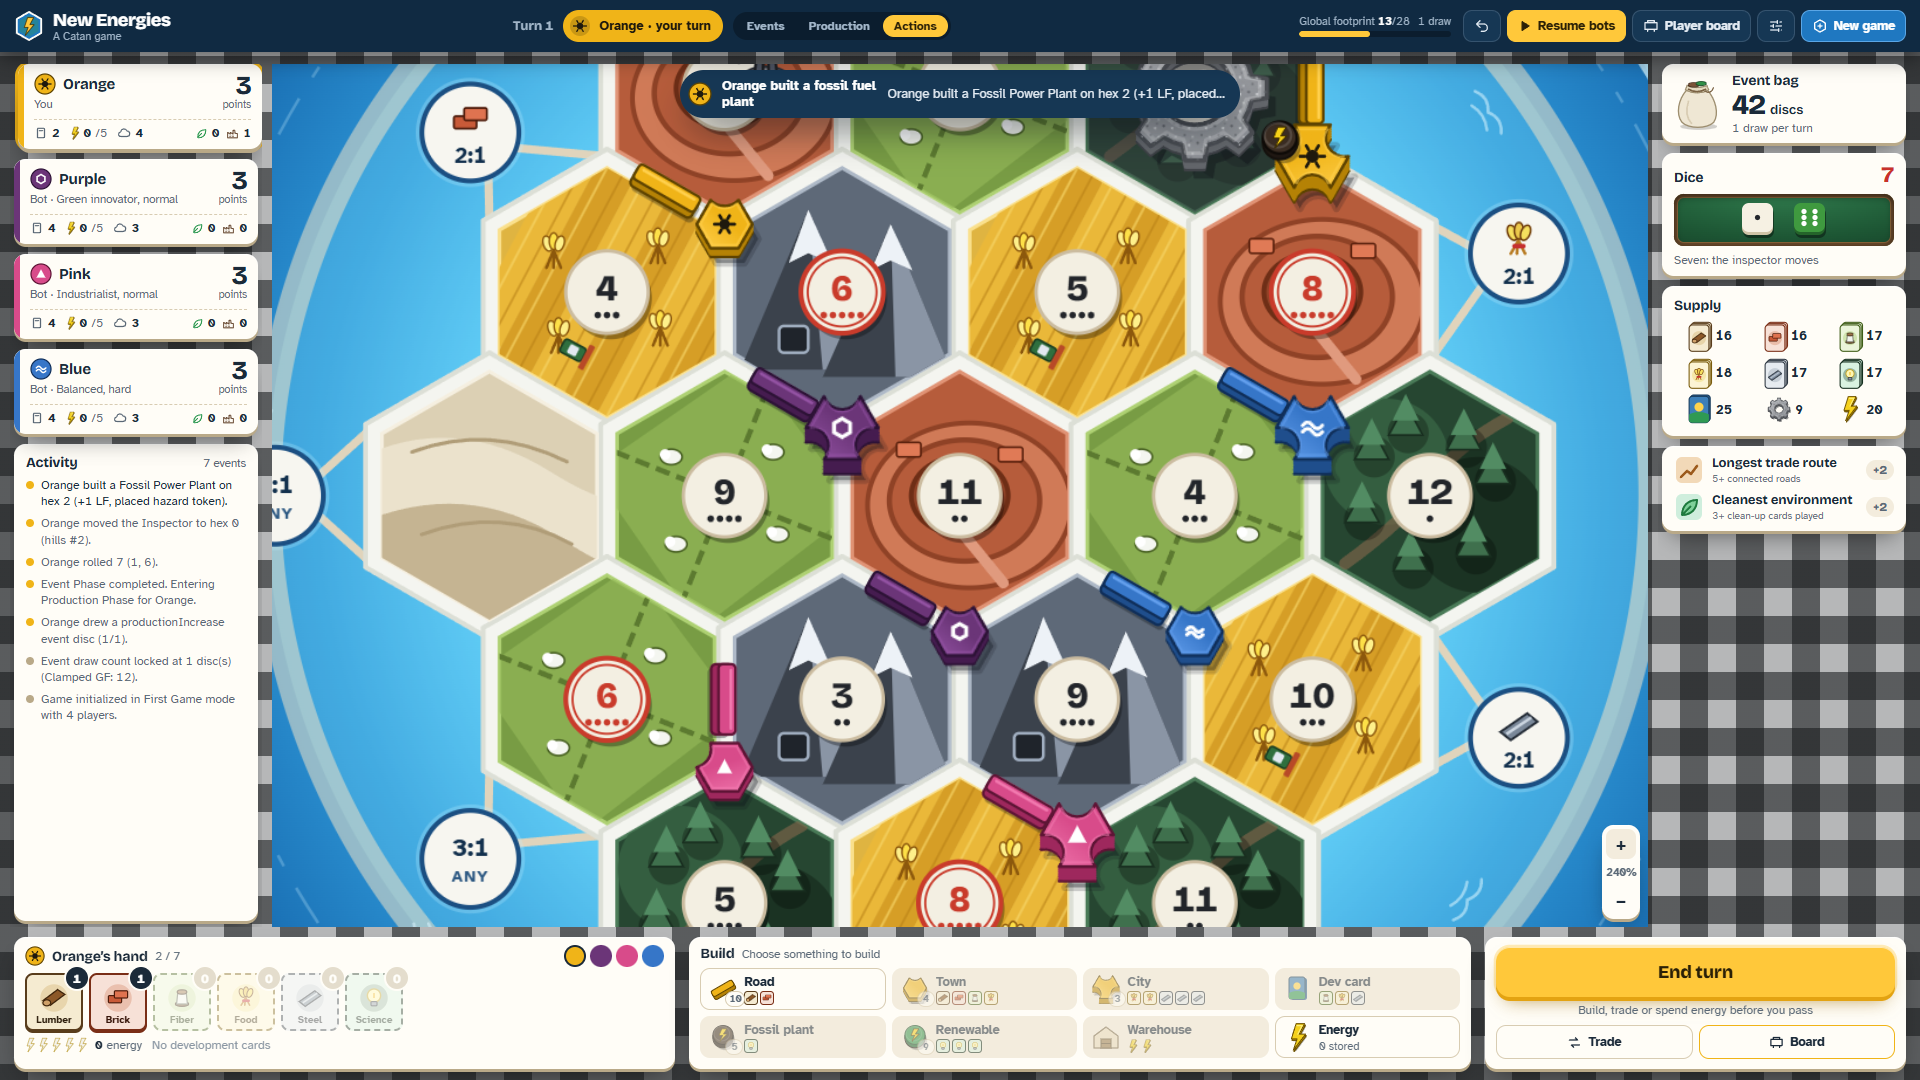
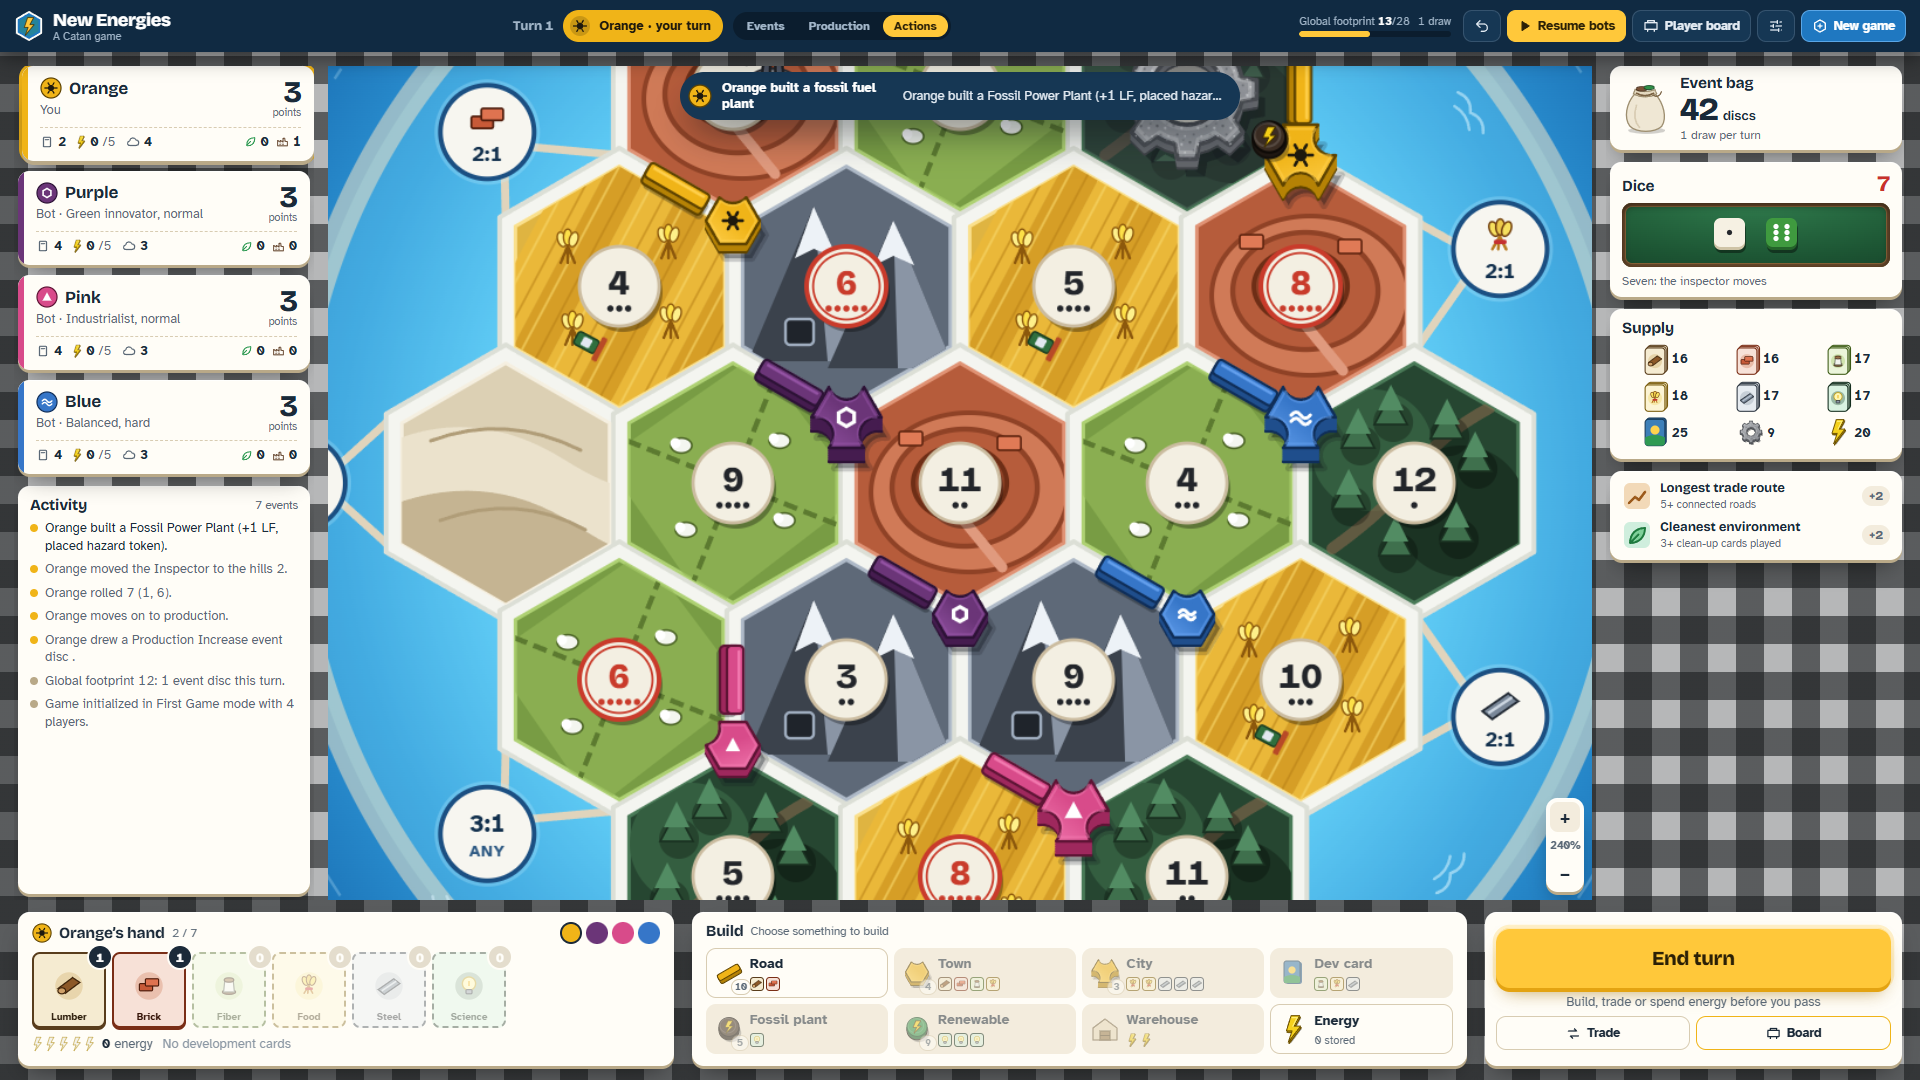
feat(ui): resume unfinished games and scale the table from phone to 1080p
- The game (and its table settings) is saved after every action and
  picked back up on reload, with a "Welcome back" toast; URLs that ask
  for a specific new game (seed, setup, placement, mode, ...) start fresh.
- Large screens (>=1600x940) get wider rails, bigger cards, tiles and
  primary button so the chrome keeps pace with the larger board.
- Narrow screens: tool buttons collapse to icons, and phones get one
  scrolling column ordered board, hand, build palette, primary action,
  then the player and table rails.

diff --git a/src/ui/TabletopApp.tsx b/src/ui/TabletopApp.tsx
@@ -54,7 +54,7 @@ import { TableRail } from './TableRail';
 import { DEV_CARD_METADATA, EVENT_TRACK_METADATA, PLAYER_THEMES } from './theme';
 import { TopBar } from './TopBar';
 
-const STORAGE_KEY = 'catan_new_energies_saved_state_v1';
+const SAVED_GAME_KEY = 'catan_new_energies_saved_game_v2';
 const TABLECLOTH_COLOR_KEY = 'catan_new_energies_tablecloth_color_v1';
 const MIN_ZOOM = 0.6;
 const MAX_ZOOM = 5;
@@ -97,6 +97,8 @@ interface UrlParams {
   allBots: boolean;
   roomCode: string;
   scenario: string;
+  /** The URL asks for a specific new game (so a saved game should not be resumed) */
+  hasGameParams: boolean;
 }
 
 function parseUrlParams(): UrlParams {
@@ -111,11 +113,14 @@ function parseUrlParams(): UrlParams {
       allBots: false,
       roomCode: '',
       scenario: '',
+      hasGameParams: false,
     };
   }
   const params = new URLSearchParams(window.location.search);
   const scenario = params.get('scenario') ?? '';
+  const gameParams = ['seed', 'setup', 'placement', 'players', 'bots', 'mode', 'room', 'scenario'];
   return {
+    hasGameParams: gameParams.some((k) => params.has(k)),
     seed: parseInt(params.get('seed') ?? '42', 10) || 42,
     setupMode: params.get('setup') === 'standard' ? 'standard' : 'first',
     // Players place their own starting pieces unless beginner positions are asked for
@@ -171,6 +176,36 @@ function createGameFromConfig(cfg: LobbyConfig, scenario = ''): GameState {
     },
   });
   return scenario ? applyDevScenario(state, scenario) : state;
+}
+
+interface SavedGame {
+  version: 2;
+  savedAt: number;
+  state: GameState;
+  config: LobbyConfig;
+}
+
+/** The unfinished game this browser was last playing, if any. */
+function loadSavedGame(): SavedGame | null {
+  try {
+    const raw = localStorage.getItem(SAVED_GAME_KEY);
+    if (!raw) return null;
+    const saved = JSON.parse(raw) as SavedGame;
+    if (saved?.version !== 2 || !saved.state?.board || !saved.config?.seats) return null;
+    if (saved.state.phase === 'GameEnd' || saved.state.winner !== null) return null;
+    return saved;
+  } catch {
+    return null;
+  }
+}
+
+function saveGame(state: GameState, config: LobbyConfig) {
+  try {
+    const saved: SavedGame = { version: 2, savedAt: Date.now(), state, config };
+    localStorage.setItem(SAVED_GAME_KEY, JSON.stringify(saved));
+  } catch {
+    // Ignore storage quota / privacy-mode errors
+  }
 }
 
 function mapDifficulty(d: 'easy' | 'normal' | 'hard'): BotDifficulty {
@@ -279,10 +314,14 @@ function describeAction(action: GameAction, prev: GameState, next: GameState): T
 
 export function TabletopApp() {
   const initialUrl = useMemo(() => parseUrlParams(), []);
-  const [lobbyConfig, setLobbyConfig] = useState<LobbyConfig>(() => createDefaultLobbyConfig(initialUrl));
+  // A refresh picks the unfinished game back up unless the URL asks for a specific new one
+  const resumed = useMemo(() => (initialUrl.hasGameParams ? null : loadSavedGame()), [initialUrl]);
+  const [lobbyConfig, setLobbyConfig] = useState<LobbyConfig>(
+    () => resumed?.config ?? createDefaultLobbyConfig(initialUrl)
+  );
   const [showLobby, setShowLobby] = useState<boolean>(!initialUrl.autostart);
-  const [gameState, setGameState] = useState<GameState>(() =>
-    createGameFromConfig(lobbyConfig, initialUrl.scenario)
+  const [gameState, setGameState] = useState<GameState>(
+    () => resumed?.state ?? createGameFromConfig(lobbyConfig, initialUrl.scenario)
   );
 
   const [history, setHistory] = useState<GameState[]>([]);
@@ -301,7 +340,16 @@ export function TabletopApp() {
   const [isMatOpen, setIsMatOpen] = useState(false);
   const [hoveredNodeId, setHoveredNodeId] = useState<NodeId | null>(null);
   const [hoveredEdgeId, setHoveredEdgeId] = useState<EdgeId | null>(null);
-  const [toast, setToast] = useState<Toast | null>(null);
+  const [toast, setToast] = useState<Toast | null>(() =>
+    resumed
+      ? {
+          id: 1,
+          playerId: resumed.state.activePlayerId,
+          title: 'Welcome back',
+          detail: 'Your game was restored where you left off.',
+        }
+      : null
+  );
   const [rollAnimKey, setRollAnimKey] = useState<number | null>(null);
 
   const [tableclothColor, setTableclothColor] = useState<string>(() => {
@@ -399,11 +447,7 @@ export function TabletopApp() {
         setRollAnimKey(Date.now());
       }
 
-      try {
-        localStorage.setItem(STORAGE_KEY, JSON.stringify(next));
-      } catch {
-        // Ignore storage quota errors
-      }
+      saveGame(next, lobbyConfig);
 
       if (transportRef.current) {
         transportRef.current.send({
@@ -431,8 +475,10 @@ export function TabletopApp() {
   };
 
   const handleStartNewGame = (cfg: LobbyConfig) => {
+    const fresh = createGameFromConfig(cfg);
     setLobbyConfig(cfg);
-    setGameState(createGameFromConfig(cfg));
+    setGameState(fresh);
+    saveGame(fresh, cfg);
     setHistory([]);
     setActiveBuildMode(null);
     setInspectedPlayerId(null);

diff --git a/src/ui/tabletop.css b/src/ui/tabletop.css
@@ -1996,6 +1996,67 @@ select.lb-input {
 /* Responsive                                                                 */
 /* ========================================================================== */
 
+@media (min-width: 1600px) and (min-height: 940px) {
+  .tt-table {
+    grid-template-columns: 292px minmax(0, 1fr) 292px;
+    gap: 18px;
+    padding: 14px 18px 12px;
+  }
+  .tt-rail {
+    gap: 12px;
+  }
+  .tt-card-title {
+    font-size: 15.5px;
+  }
+  .tt-player {
+    padding: 11px 13px 11px 18px;
+  }
+  .tt-player-name {
+    font-size: 17px;
+  }
+  .tt-player-role,
+  .tt-player-stats,
+  .tt-feed-item,
+  .tt-award {
+    font-size: 13px;
+  }
+  .tt-player-vp strong {
+    font-size: 30px;
+  }
+  .tt-bag-count {
+    font-size: 32px;
+  }
+  .tt-dice-felt {
+    height: 64px;
+  }
+  .tt-dock {
+    gap: 18px;
+    padding: 0 18px 14px;
+  }
+  .tt-dock-panel {
+    padding: 10px 14px 12px;
+    gap: 8px;
+  }
+  .tt-res-card {
+    max-width: 74px;
+    height: 76px;
+  }
+  .tt-build {
+    min-height: 50px;
+  }
+  .tt-build b {
+    font-size: 14px;
+  }
+  .tt-cta {
+    min-height: 60px;
+    font-size: 20px;
+  }
+  .tt-cta-sub,
+  .tt-hand-extras {
+    font-size: 13px;
+  }
+}
+
 @media (max-width: 1280px) {
   .tt-table {
     grid-template-columns: 212px minmax(0, 1fr) 212px;
@@ -2014,6 +2075,13 @@ select.lb-input {
   .tt-dock {
     grid-template-columns: minmax(0, 1fr) minmax(0, 1fr);
   }
+  .tt-build b {
+    font-size: 11.5px;
+  }
+  .tt-build {
+    grid-template-columns: 26px 1fr;
+    padding: 4px 5px;
+  }
   .tt-action-panel {
     grid-column: 1 / -1;
     flex-direction: row;
@@ -2025,25 +2093,58 @@ select.lb-input {
 }
 
 @media (max-width: 900px) {
+  /* Phone / narrow: one scrolling column — board, then your hand & action, then the rails */
   .tt-app {
+    display: flex;
+    flex-direction: column;
     overflow-y: auto;
-    height: auto;
-    min-height: 100vh;
-    grid-template-rows: 52px auto auto;
+    height: 100vh;
+  }
+  .tt-topbar {
+    position: sticky;
+    top: 0;
+    flex: 0 0 52px;
   }
   .tt-table {
-    grid-template-columns: 1fr;
+    display: contents;
   }
   .tt-board-area {
+    order: 1;
+    flex: 0 0 auto;
     height: min(100vw, 70vh);
-    order: -1;
+    margin: 8px 10px 0;
   }
   .tt-dock {
+    order: 2;
     grid-template-columns: 1fr;
+    padding: 10px;
+  }
+  .tt-rail {
+    order: 3;
+    overflow: visible;
+    margin: 0;
+    padding: 0 10px 12px;
   }
   .tt-gf,
-  .tt-brand-word small {
+  .tt-brand-word,
+  .tt-btn-label {
     display: none;
+  }
+  .tt-topbar {
+    gap: 8px;
+    padding: 0 10px;
+  }
+  .tt-turn {
+    justify-content: flex-start;
+  }
+}
+
+@media (max-width: 600px) {
+  .tt-build-grid {
+    grid-template-columns: repeat(2, minmax(0, 1fr));
+  }
+  .tt-build b {
+    font-size: 12.5px;
   }
 }
 

diff --git a/src/ui/__tests__/ui.test.tsx b/src/ui/__tests__/ui.test.tsx
@@ -1,7 +1,7 @@
 import 'preact/compat';
 import { render } from 'preact';
 import { act } from 'preact/test-utils';
-import { afterEach, beforeEach, describe, expect, it } from 'vitest';
+import { afterEach, beforeEach, describe, expect, it, vi } from 'vitest';
 import { createInitialGameState } from '../../engine/setup';
 import { IslandBoardSvg } from '../IslandBoardSvg';
 import { PlayerMat } from '../PlayerMat';
@@ -315,6 +315,40 @@ describe('Tabletop UI & Showcase Player Mat (Milestones 3, 4 & 5 UI)', () => {
     } finally {
       window.history.pushState({}, '', '/');
     }
+  });
+
+  it('restores an unfinished game after a page reload', () => {
+    // Node's own (flag-gated) localStorage global shadows happy-dom's, so provide one
+    const store = new Map<string, string>();
+    vi.stubGlobal('localStorage', {
+      getItem: (k: string) => store.get(k) ?? null,
+      setItem: (k: string, v: string) => void store.set(k, v),
+      removeItem: (k: string) => void store.delete(k),
+      clear: () => store.clear(),
+    });
+    window.history.pushState({}, '', '/?placement=fixed');
+    act(() => {
+      render(<TabletopApp />, container);
+    });
+    act(() => {
+      (container.querySelector('[data-testid="bot-pause-btn"]') as HTMLButtonElement).click();
+    });
+    act(() => {
+      (container.querySelector('[data-testid="action-draw-event-btn"]') as HTMLButtonElement).click();
+    });
+    expect(container.querySelector('[data-testid="action-roll-dice-btn"]')).not.toBeNull();
+
+    // "Reload": unmount and mount again on a plain URL
+    act(() => {
+      render(null, container);
+    });
+    window.history.pushState({}, '', '/');
+    act(() => {
+      render(<TabletopApp />, container);
+    });
+    expect(container.querySelector('[data-testid="action-roll-dice-btn"]')).not.toBeNull();
+    expect(container.querySelector('[data-testid="live-action-banner"]')?.textContent).toContain('Welcome back');
+    vi.unstubAllGlobals();
   });
 
   it('lets every hotseat player place a starting town, road, city and road on the beginner board', () => {

diff --git a/src/ui/TopBar.tsx b/src/ui/TopBar.tsx
@@ -134,7 +134,8 @@ export function TopBar({
             <PlayerEmblemSvg playerId={state.activePlayerId} cx={0} cy={0} r={6} />
           </svg>
           <span>
-            {active.name} · {activeLabel}
+            {active.name}
+            <span className="tt-btn-label"> · {activeLabel}</span>
           </span>
           {activeIsBot && !botPaused && (
             <span className="tt-thinking" aria-hidden="true">
@@ -205,7 +206,7 @@ export function TopBar({
             title={botPaused ? 'Resume bots' : 'Pause bots'}
           >
             <Icon name={botPaused ? 'play' : 'pause'} size={14} />
-            {botPaused ? 'Resume bots' : 'Pause bots'}
+            <span className="tt-btn-label">{botPaused ? 'Resume bots' : 'Pause bots'}</span>
           </button>
         )}
 
@@ -218,7 +219,7 @@ export function TopBar({
           title={isMatOpen ? 'Hide player board' : 'Show player board'}
         >
           <Icon name="board" />
-          Player board
+          <span className="tt-btn-label">Player board</span>
         </button>
 
         <div ref={settingsRef} style={{ position: 'relative' }}>
@@ -302,7 +303,7 @@ export function TopBar({
           onClick={onOpenLobby}
         >
           <Icon name="newGame" />
-          New game
+          <span className="tt-btn-label">New game</span>
         </button>
       </div>
     </header>
